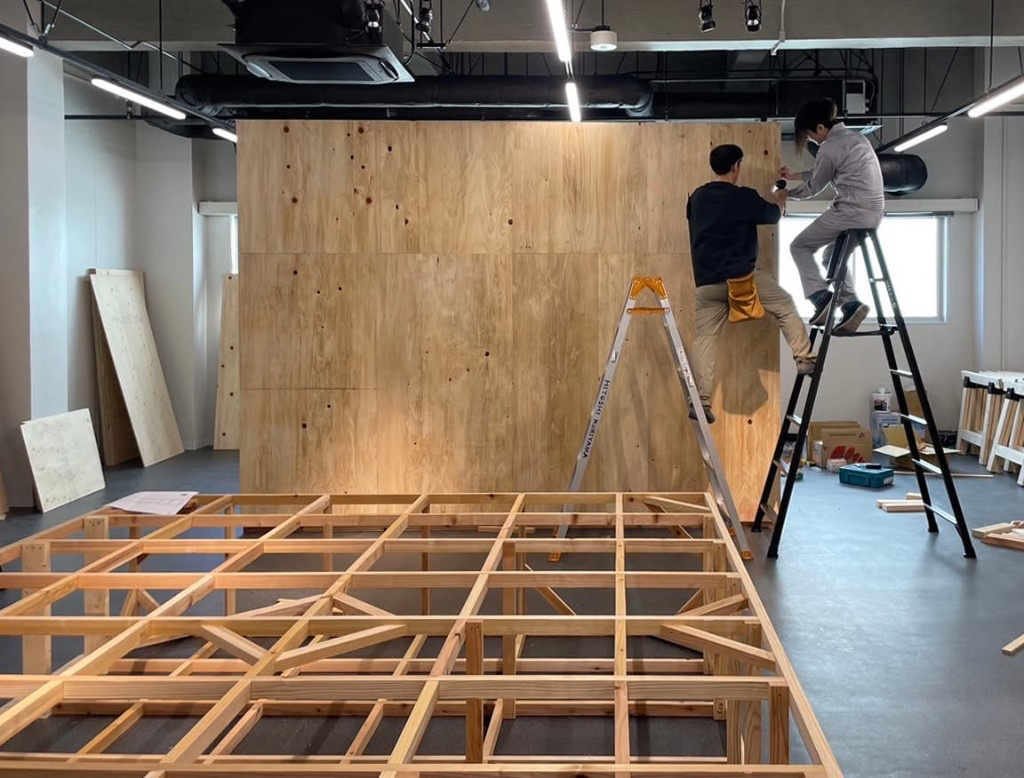
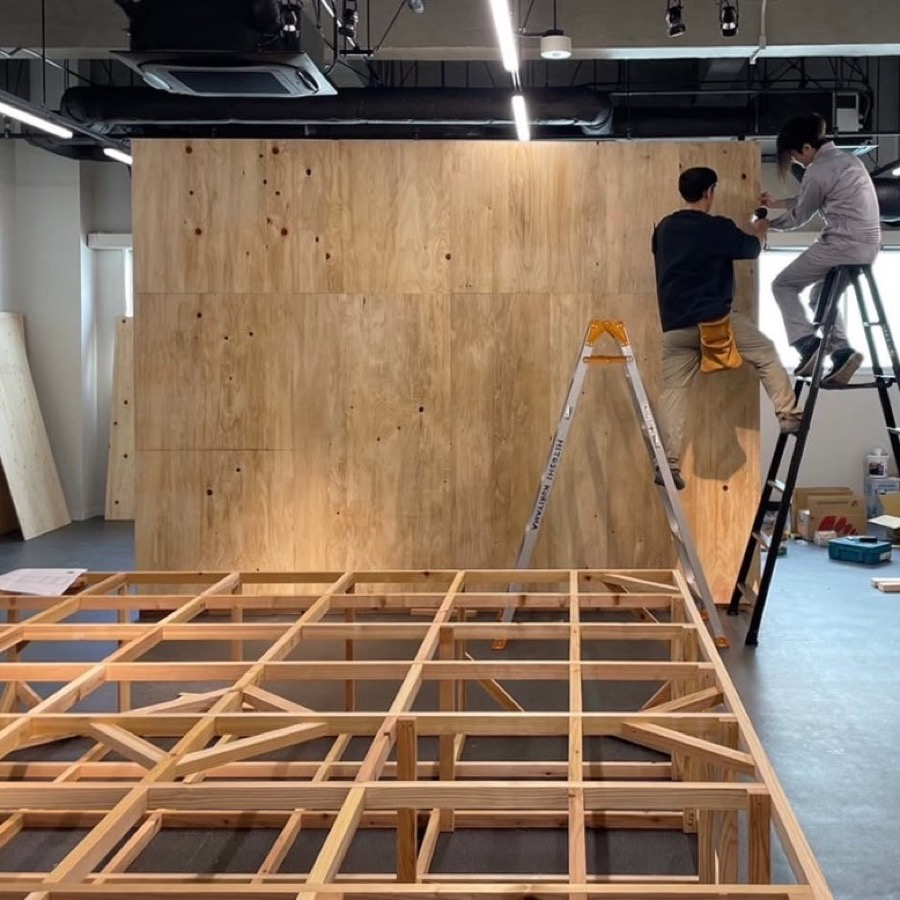
制作できる場の写真を正方形に統一し、カードレイアウトの余白を修正する。
画像を900px四方に事前トリミングし、photo-frameで表示。リンクのmargin-top:autoをやめて間延びを解消した。

diff --git a/ta_rabo_profile.html b/ta_rabo_profile.html
@@ -392,6 +392,7 @@
     display: grid;
     grid-template-columns: repeat(auto-fit, minmax(min(100%, 320px), 1fr));
     gap: 1.25rem;
+    align-items: start;
   }
   .place-card {
     border: 1px solid #1a2030;
@@ -404,13 +405,18 @@
   .place-card:hover {
     border-color: rgba(91,127,255,0.4);
   }
+  .place-photo-frame {
+    aspect-ratio: 1 / 1;
+    overflow: hidden;
+    background: #0a0e14;
+    flex-shrink: 0;
+  }
   .place-photo {
     display: block;
     width: 100%;
-    aspect-ratio: 1 / 1;
+    height: 100%;
     object-fit: cover;
     object-position: center;
-    background: #0a0e14;
   }
   .place-body {
     padding: 1.35rem 1.35rem 1.45rem;
@@ -461,7 +467,6 @@
     padding: 0.25em 0.65em;
   }
   .place-link {
-    margin-top: auto;
     font-family: 'Space Mono', monospace;
     font-size: 0.62rem;
     letter-spacing: 0.12em;
@@ -472,7 +477,6 @@
     transition: border-color 0.2s, color 0.2s;
   }
   .place-links {
-    margin-top: auto;
     display: flex;
     flex-direction: column;
     gap: 0.45rem;
@@ -486,7 +490,13 @@
     border-bottom-color: var(--amber-light);
   }
   .place-actions {
-    margin-top: auto;
+    display: flex;
+    flex-direction: column;
+    gap: 0.45rem;
+    align-items: flex-start;
+  }
+  .place-footer {
+    margin-top: 0.35rem;
     display: flex;
     flex-direction: column;
     gap: 0.45rem;
@@ -1416,7 +1426,9 @@
 
   <div class="places-grid">
     <article class="place-card">
-      <img class="place-photo" src="assets/tools/kobo-workshop.jpg" alt="工作工房の内部。木工機械と作業台が並ぶ広い工房空間" width="617" height="324" loading="lazy">
+      <div class="place-photo-frame">
+        <img class="place-photo" src="assets/tools/kobo-workshop.jpg?v=sq900" alt="工作工房の内部。木工機械と作業台が並ぶ広い工房空間" loading="lazy">
+      </div>
       <div class="place-body">
         <div class="place-kicker">01 — Analog Fabrication</div>
         <h3 class="place-title">工作工房</h3>
@@ -1433,12 +1445,16 @@
           <span class="place-tag">樹脂</span>
           <span class="place-tag">教員サイン可</span>
         </div>
-        <a class="place-link" href="https://www.kobo.design.kyushu-u.ac.jp" target="_blank" rel="noopener">工作工房公式サイト →</a>
+        <div class="place-footer">
+          <a class="place-link" href="https://www.kobo.design.kyushu-u.ac.jp" target="_blank" rel="noopener">工作工房公式サイト →</a>
+        </div>
       </div>
     </article>
 
     <article class="place-card">
-      <img class="place-photo" src="assets/tools/prototyping-lab.jpg?v=20260729b" alt="プロトタイピングラボの内部。作業机と3Dプリンタ、書棚が並ぶ制作スペース" width="1024" height="768" loading="lazy">
+      <div class="place-photo-frame">
+        <img class="place-photo" src="assets/tools/prototyping-lab.jpg?v=sq900" alt="プロトタイピングラボの内部。作業机と3Dプリンタ、書棚が並ぶ制作スペース" loading="lazy">
+      </div>
       <div class="place-body">
         <div class="place-kicker">02 — Digital Fabrication</div>
         <h3 class="place-title">プロトタイピングラボ</h3>
@@ -1455,7 +1471,7 @@
           <span class="place-tag">レーザー</span>
           <span class="place-tag">予約不要</span>
         </div>
-        <div class="place-links">
+        <div class="place-footer place-links">
           <a class="place-link" href="https://polarized-brush-d47.notion.site/1cac2953ed0e8060aa2dd3885092f6bb" target="_blank" rel="noopener">プロトタイピングラボ マニュアル →</a>
           <a class="place-link" href="https://discord.gg/ce8ecWndmJ" target="_blank" rel="noopener">プロトタイピングラボ Discord →</a>
         </div>
@@ -1463,7 +1479,9 @@
     </article>
 
     <article class="place-card">
-      <img class="place-photo" src="assets/tools/ceramic-lab.jpg" alt="セラミックラボの内部。電気窯と作業机、試作品が並ぶ陶芸スペース" width="1024" height="639" loading="lazy">
+      <div class="place-photo-frame">
+        <img class="place-photo" src="assets/tools/ceramic-lab.jpg?v=sq900" alt="セラミックラボの内部。電気窯と作業机、試作品が並ぶ陶芸スペース" loading="lazy">
+      </div>
       <div class="place-body">
         <div class="place-kicker">03 — Ceramics</div>
         <h3 class="place-title">セラミックラボ</h3>
@@ -1480,7 +1498,7 @@
           <span class="place-tag">要申請</span>
           <span class="place-tag">Discord調整</span>
         </div>
-        <div class="place-actions">
+        <div class="place-footer place-actions">
           <button type="button" class="place-open-btn" id="ceramic-lab-open" aria-haspopup="dialog" aria-controls="ceramic-lab-modal">利用申請の詳細を見る</button>
           <a class="place-link" href="https://discord.gg/ce8ecWndmJ" target="_blank" rel="noopener">Discord（セラミックラボ） →</a>
         </div>
@@ -1488,7 +1506,9 @@
     </article>
 
     <article class="place-card">
-      <img class="place-photo" src="assets/tools/miraid-202.jpg" alt="多次元棟202教室の内部。大規模な木工制作が行われる教室スペース" width="1024" height="778" loading="lazy">
+      <div class="place-photo-frame">
+        <img class="place-photo" src="assets/tools/miraid-202.jpg?v=sq900" alt="多次元棟202教室の内部。大規模な木工制作が行われる教室スペース" loading="lazy">
+      </div>
       <div class="place-body">
         <div class="place-kicker">04 — Studio Room</div>
         <h3 class="place-title">多次元棟 2階 202教室</h3>
@@ -1505,7 +1525,7 @@
           <span class="place-tag">学生間調整</span>
           <span class="place-tag">電子錠</span>
         </div>
-        <div class="place-actions">
+        <div class="place-footer place-actions">
           <button type="button" class="place-open-btn" id="miraid-202-open" aria-haspopup="dialog" aria-controls="miraid-202-modal">利用の流れを見る</button>
           <a class="place-link" href="https://forms.office.com/r/x7sFKBc5UK" target="_blank" rel="noopener">利用申請フォーム（学生用） →</a>
         </div>
